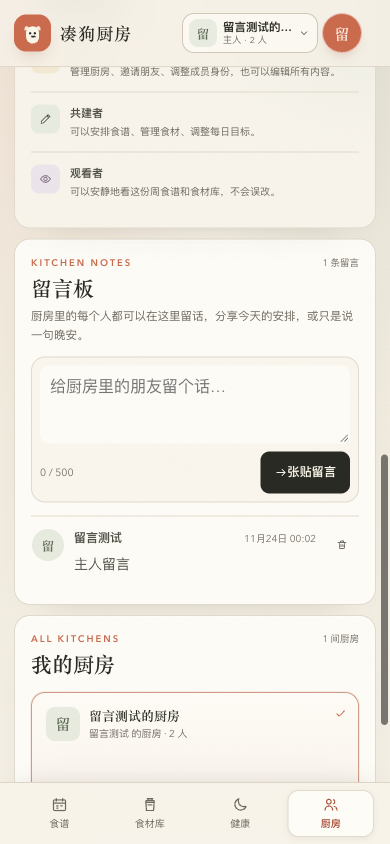
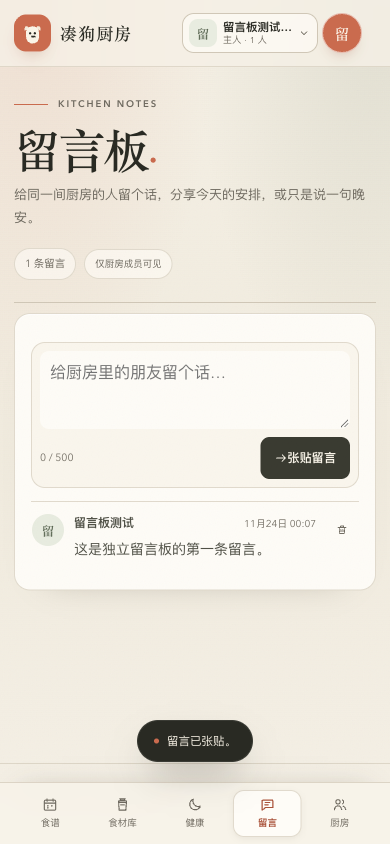
Move message board into its own navigation tab

diff --git a/index.html b/index.html
@@ -28,6 +28,7 @@
     <symbol id="icon-chevron-down" viewBox="0 0 24 24"><path d="m6 9.5 6 6 6-6"/></symbol>
     <symbol id="icon-close" viewBox="0 0 24 24"><path d="m6 6 12 12M18 6 6 18"/></symbol>
     <symbol id="icon-moon" viewBox="0 0 24 24"><path d="M20 14.5A8 8 0 0 1 9.5 4 8.2 8.2 0 1 0 20 14.5Z"/></symbol>
+    <symbol id="icon-message" viewBox="0 0 24 24"><path d="M4 5.5h16v11H9l-5 4v-15Z"/><path d="M8 9h8M8 12.5h5"/></symbol>
     <symbol id="icon-activity" viewBox="0 0 24 24"><path d="M3 12h4l2.2-6 4.1 12 2.2-6H21"/></symbol>
     <symbol id="icon-target" viewBox="0 0 24 24">
       <circle cx="12" cy="12" r="8.5"/><circle cx="12" cy="12" r="4.5"/><circle cx="12" cy="12" r=".8" fill="currentColor" stroke="none"/>
@@ -223,6 +224,10 @@ npm start</code></pre>
           <button class="nav-item" type="button" data-view="wellness">
             <svg class="icon" aria-hidden="true"><use href="#icon-moon"></use></svg>
             <span>健康</span>
+          </button>
+          <button class="nav-item" type="button" data-view="messages">
+            <svg class="icon" aria-hidden="true"><use href="#icon-message"></use></svg>
+            <span>留言板</span>
           </button>
           <button class="nav-item" type="button" data-view="kitchen">
             <svg class="icon" aria-hidden="true"><use href="#icon-users"></use></svg>
@@ -534,6 +539,36 @@ npm start</code></pre>
         </section>
       </section>
 
+      <!-- ============ Message board ============ -->
+      <section class="view shell" id="messagesView" aria-labelledby="messagesTitle" hidden>
+        <header class="view-head">
+          <div class="view-heading">
+            <p class="eyebrow"><span class="eyebrow-dash"></span>KITCHEN NOTES</p>
+            <h1 id="messagesTitle">留言板<span class="title-dot">.</span></h1>
+            <p class="view-lede">给同一间厨房的人留个话，分享今天的安排，或只是说一句晚安。</p>
+          </div>
+          <div class="view-head-actions">
+            <span class="count-chip" id="messageCountLabel">0 条留言</span>
+            <span class="wellness-private">仅厨房成员可见</span>
+          </div>
+        </header>
+
+        <section class="message-board-card">
+          <form class="message-form" id="messageForm">
+            <label class="visually-hidden" for="messageInput">留言内容</label>
+            <textarea id="messageInput" maxlength="500" placeholder="给厨房里的朋友留个话…" aria-describedby="messageLength"></textarea>
+            <div class="message-form-foot">
+              <span class="message-length" id="messageLength">0 / 500</span>
+              <button class="button button-primary message-submit" id="messageSubmit" type="submit">
+                <svg class="icon" aria-hidden="true"><use href="#icon-arrow-right"></use></svg>
+                张贴留言
+              </button>
+            </div>
+          </form>
+          <div class="message-list" id="messageList"></div>
+        </section>
+      </section>
+
       <!-- ============ Kitchen ============ -->
       <section class="view shell" id="kitchenView" aria-labelledby="kitchenTitle" hidden>
         <header class="view-head">
@@ -664,29 +699,6 @@ npm start</code></pre>
           </aside>
         </div>
 
-        <section class="message-board-card">
-          <div class="card-heading">
-            <div>
-              <p class="card-kicker">KITCHEN NOTES</p>
-              <h2>留言板</h2>
-            </div>
-            <span class="member-hint" id="messageCountLabel">0 条留言</span>
-          </div>
-          <p class="message-board-copy">厨房里的每个人都可以在这里留话，分享今天的安排，或只是说一句晚安。</p>
-          <form class="message-form" id="messageForm">
-            <label class="visually-hidden" for="messageInput">留言内容</label>
-            <textarea id="messageInput" maxlength="500" placeholder="给厨房里的朋友留个话…" aria-describedby="messageLength"></textarea>
-            <div class="message-form-foot">
-              <span class="message-length" id="messageLength">0 / 500</span>
-              <button class="button button-primary message-submit" id="messageSubmit" type="submit">
-                <svg class="icon" aria-hidden="true"><use href="#icon-arrow-right"></use></svg>
-                张贴留言
-              </button>
-            </div>
-          </form>
-          <div class="message-list" id="messageList"></div>
-        </section>
-
         <section class="my-kitchens-section">
           <div class="card-heading">
             <div>
@@ -719,6 +731,10 @@ npm start</code></pre>
       <button class="mobile-tab" type="button" data-view="wellness">
         <svg class="icon" aria-hidden="true"><use href="#icon-moon"></use></svg>
         <span>健康</span>
+      </button>
+      <button class="mobile-tab" type="button" data-view="messages">
+        <svg class="icon" aria-hidden="true"><use href="#icon-message"></use></svg>
+        <span>留言</span>
       </button>
       <button class="mobile-tab" type="button" data-view="kitchen">
         <svg class="icon" aria-hidden="true"><use href="#icon-users"></use></svg>

diff --git a/app.js b/app.js
@@ -300,7 +300,7 @@
 
   function viewFromHash() {
     const raw = location.hash.replace(/^#\/?/, "").split("?")[0];
-    return ["planner", "ingredients", "wellness", "kitchen"].includes(raw) ? raw : "planner";
+    return ["planner", "ingredients", "wellness", "messages", "kitchen"].includes(raw) ? raw : "planner";
   }
 
   /* =========================================================
@@ -828,6 +828,7 @@
       if (render) {
         renderChrome();
         renderKitchen();
+        renderMessages();
         renderPlanner();
         renderIngredients();
       }
@@ -900,7 +901,7 @@
           await refreshPlan({ silent: true });
         } else if (state.view === "ingredients") {
           await refreshIngredients({ silent: true });
-        } else if (state.view === "kitchen") {
+        } else if (state.view === "kitchen" || state.view === "messages") {
           await refreshKitchenDetail();
         }
         if (state.pollTick % 4 === 0) {
@@ -1967,7 +1968,6 @@
 
     renderActiveInvites(owner);
     renderMemberList(owner);
-    renderMessages();
     renderKitchenList();
   }
 
@@ -2158,7 +2158,7 @@
 
   function setView(view, { updateHash = true } = {}) {
     if (!state.user) return;
-    if (!["planner", "ingredients", "wellness", "kitchen"].includes(view)) view = "planner";
+    if (!["planner", "ingredients", "wellness", "messages", "kitchen"].includes(view)) view = "planner";
     if (!state.kitchen) view = "kitchen";
     if (view !== "ingredients" && state.ingredientBulkMode) {
       state.ingredientBulkMode = false;
@@ -2169,6 +2169,7 @@
     dom.plannerView.hidden = view !== "planner";
     dom.ingredientsView.hidden = view !== "ingredients";
     dom.wellnessView.hidden = view !== "wellness";
+    dom.messagesView.hidden = view !== "messages";
     dom.kitchenView.hidden = view !== "kitchen";
     selectNav(view);
 
@@ -2179,6 +2180,11 @@
     } else if (view === "wellness") {
       renderWellness();
       loadWellness();
+    } else if (view === "messages") {
+      renderMessages();
+      refreshKitchenDetail({ render: false }).then(() => {
+        if (state.view === "messages") renderMessages();
+      });
     } else if (view === "kitchen") {
       renderKitchen();
     }
@@ -2188,7 +2194,7 @@
     }
 
     if (state.kitchen) {
-      const names = { planner: "一周食谱", ingredients: "食材库", wellness: "健康", kitchen: "厨房" };
+      const names = { planner: "一周食谱", ingredients: "食材库", wellness: "健康", messages: "留言板", kitchen: "厨房" };
       document.title = `${names[view]} · ${state.kitchen.name} | 凑狗厨房`;
     }
 
@@ -3397,6 +3403,7 @@
     dom.ingredientsView = id("ingredientsView");
     dom.kitchenView = id("kitchenView");
     dom.wellnessView = id("wellnessView");
+    dom.messagesView = id("messagesView");
     dom.wellnessRange = id("wellnessRange");
     dom.wellnessDays = id("wellnessDays");
     dom.sleepBedtime = id("sleepBedtime");

diff --git a/styles.css b/styles.css
@@ -8284,3 +8284,18 @@ body {
     height: 32px;
   }
 }
+
+@media (max-width: 880px) {
+  .mobile-tabbar {
+    grid-template-columns: repeat(5, 1fr);
+  }
+
+  .mobile-tab {
+    font-size: 9.5px;
+  }
+
+  .mobile-tab .icon {
+    width: 16px;
+    height: 16px;
+  }
+}
